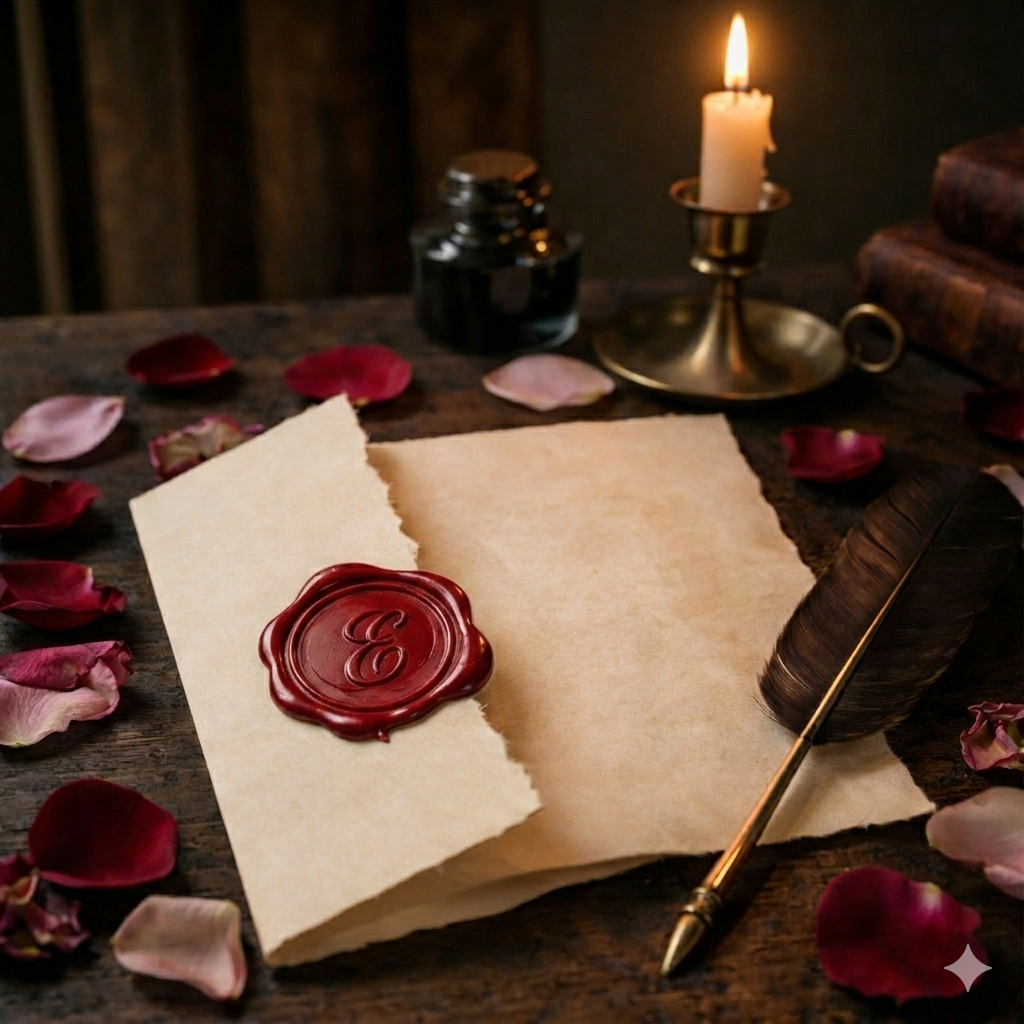
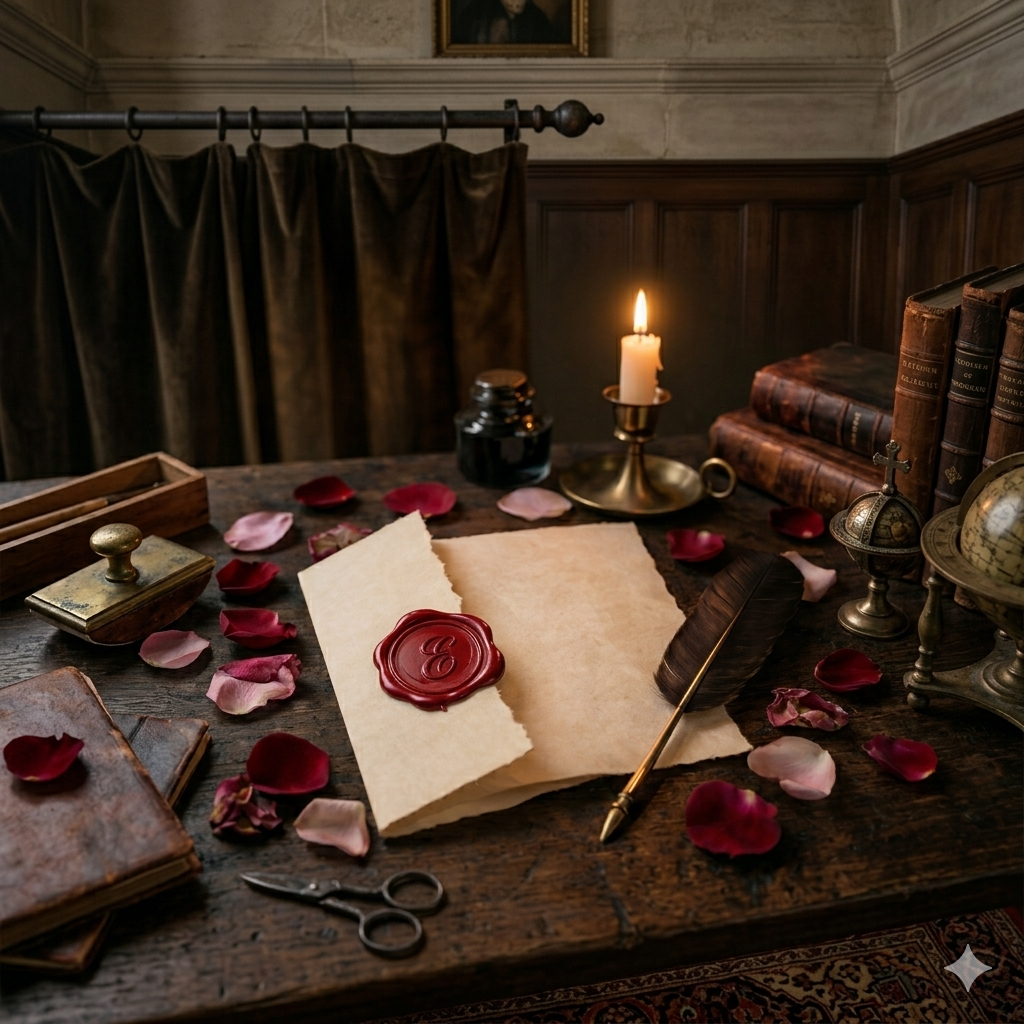
fix: Hero: Ajuste no background

diff --git a/src/components/Hero.jsx b/src/components/Hero.jsx
@@ -11,7 +11,7 @@ const Hero = () => {
         style={{
           backgroundImage: `url(${process.env.PUBLIC_URL}/assets/img/carta%20fundo.png)`,
           filter: 'saturate(1.4) contrast(1.05)',
-          backgroundSize: '140% 120%',
+          backgroundSize: '160% 100%',
           backgroundRepeat: 'no-repeat'
         }}
       />
